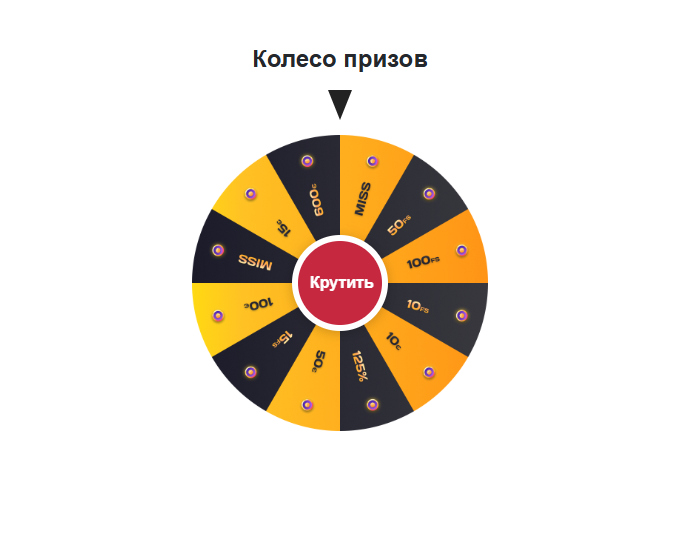
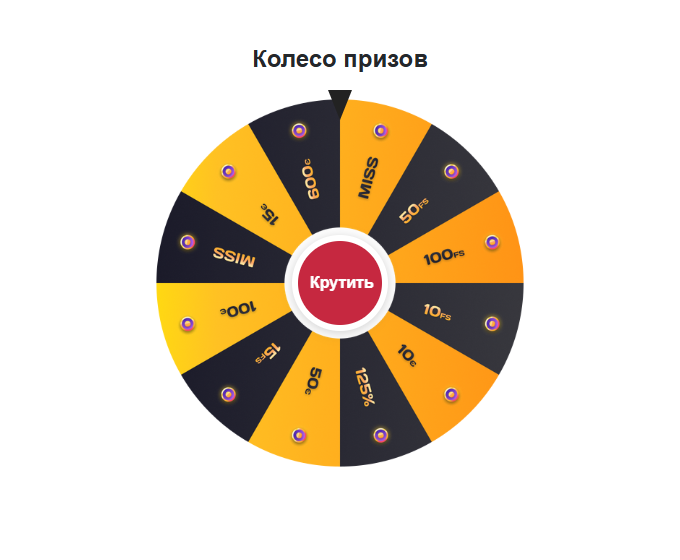
Polish wheel assets, remove product and normalize transparency

Changed region(s): [[0.2162, 0.1518, 0.7721, 0.85]]

diff --git a/README.md b/README.md
@@ -84,21 +84,21 @@ If you like this script, PLEASE DONATE!
 
 ## Дополнительные колёса
 
-Четыре изображения из [поста в «Жёлтом Вебе» от 29 августа 2022 года](https://t.me/yellow_web/830). Сохранены как JPEG из публичной веб-версии Telegram, без перерисовки. Права остаются у авторов изображений; отдельная лицензия на них не предоставляется.
+Четыре изображения из [поста в «Жёлтом Вебе» от 29 августа 2022 года](https://t.me/yellow_web/830). Подготовлены в PNG с прозрачным фоном. Права остаются у авторов изображений; отдельная лицензия на них не предоставляется.
 
 Скопируйте папку `wheels` на сайт и замените `image` и `stopAngle` в настройках. Углы ниже выставляют сектор **50%** под верхним указателем:
 
 | Файл | `stopAngle` | Источник |
 | --- | --- | --- |
-| `wheels/telegram-830.jpg` | `315` | [Пост 830](https://t.me/yellow_web/830?single) |
-| `wheels/telegram-831.jpg` | `0` | [Пост 831](https://t.me/yellow_web/831?single) |
-| `wheels/telegram-832.jpg` | `180` | [Пост 832](https://t.me/yellow_web/832?single) |
-| `wheels/telegram-833.jpg` | `67.5` | [Пост 833](https://t.me/yellow_web/833?single) |
+| `wheels/telegram-830.png` | `315` | [Пост 830](https://t.me/yellow_web/830?single) |
+| `wheels/telegram-831.png` | `0` | [Пост 831](https://t.me/yellow_web/831?single) |
+| `wheels/telegram-832.png` | `180` | [Пост 832](https://t.me/yellow_web/832?single) |
+| `wheels/telegram-833.png` | `67.5` | [Пост 833](https://t.me/yellow_web/833?single) |
 
 ```js
 const roulette = initRoulette({
   selectors: { roulette: '#roulette', form: '#order' },
-  image: 'wheels/telegram-830.jpg',
+  image: 'wheels/telegram-830.png',
   stopAngle: 315
 });
 ```
@@ -115,14 +115,14 @@ const roulette = initRoulette({
 
 ## Ещё восемь вариантов
 
-PNG предоставлены владельцем репозитория и сохранены без изменений. У первых семи файлов есть альфа-канал. У `prize-gold.png` шахматная подложка является частью изображения, прозрачности нет. У `bonus-spinner.png` широкие прозрачные поля, поэтому само колесо выглядит меньше. Центральная кнопка виджета перекрывает часть рисунка, в том числе товар на `maximizer.png`.
+Все дополнительные колёса подготовлены в PNG 512 × 512 с прозрачным фоном.
 
-Подключение такое же: `image: 'wheels/имя-файла.png'`. Для `maximizer.png` сектор 50% находится под указателем при `stopAngle: 90`, для `green-discount.png` при `stopAngle: 315`. Для остальных вариантов подберите угол и задайте `texts.popupTitle`, `texts.popupText`, `texts.confirm` под свои призы. Не оставляйте стандартные 50% у колеса с денежными суммами, FS или без надписей: скрипт не распознаёт изображение и не начисляет призы. Права на графику остаются у её авторов.
+Подключение такое же: `image: 'wheels/имя-файла.png'`. Для `coral-turquoise.png` сектор 50% находится под указателем при `stopAngle: 90`, для `green-discount.png` при `stopAngle: 315`. Для остальных вариантов подберите угол и задайте `texts.popupTitle`, `texts.popupText`, `texts.confirm` под свои призы. Не оставляйте стандартные 50% у колеса с денежными суммами, FS или без надписей: скрипт не распознаёт изображение и не начисляет призы. Права на графику остаются у её авторов.
 
-| Бирюзово-розовое, с товаром MAXIMIZER в центре | Пастельное, без надписей |
+| Бирюзово-розовое, с золотым центром | Пастельное, без надписей |
 | --- | --- |
-| [maximizer.png](wheels/maximizer.png) | [pastel.png](wheels/pastel.png) |
-| ![Бирюзово-розовое, с товаром MAXIMIZER в центре](screenshots/maximizer.png) | ![Пастельное, без надписей](screenshots/pastel.png) |
+| [coral-turquoise.png](wheels/coral-turquoise.png) | [pastel.png](wheels/pastel.png) |
+| ![Бирюзово-розовое, с золотым центром](screenshots/coral-turquoise.png) | ![Пастельное, без надписей](screenshots/pastel.png) |
 
 | Разноцветное, со скидками | Разноцветное, с Jackpot |
 | --- | --- |

diff --git a/README.en.md b/README.en.md
@@ -86,21 +86,21 @@ The wheel artwork comes from the [original CPARIP roulette](https://cpa.rip/stat
 
 ## Additional Wheels
 
-Four images from the [Yellow Web post dated August 29, 2022](https://t.me/yellow_web/830). These are JPEG images downloaded from Telegram's public web version, without redrawing. Rights remain with the original artwork owners; no separate license is granted here.
+Four images from the [Yellow Web post dated August 29, 2022](https://t.me/yellow_web/830). Available as PNG images with transparent backgrounds. Rights remain with the original artwork owners; no separate license is granted here.
 
 Copy the `wheels` directory to your website and replace `image` and `stopAngle` in your configuration. These angles place a **50%** sector under the top pointer:
 
 | File | `stopAngle` | Source |
 | --- | --- | --- |
-| `wheels/telegram-830.jpg` | `315` | [Post 830](https://t.me/yellow_web/830?single) |
-| `wheels/telegram-831.jpg` | `0` | [Post 831](https://t.me/yellow_web/831?single) |
-| `wheels/telegram-832.jpg` | `180` | [Post 832](https://t.me/yellow_web/832?single) |
-| `wheels/telegram-833.jpg` | `67.5` | [Post 833](https://t.me/yellow_web/833?single) |
+| `wheels/telegram-830.png` | `315` | [Post 830](https://t.me/yellow_web/830?single) |
+| `wheels/telegram-831.png` | `0` | [Post 831](https://t.me/yellow_web/831?single) |
+| `wheels/telegram-832.png` | `180` | [Post 832](https://t.me/yellow_web/832?single) |
+| `wheels/telegram-833.png` | `67.5` | [Post 833](https://t.me/yellow_web/833?single) |
 
 ```js
 const roulette = initRoulette({
   selectors: { roulette: '#roulette', form: '#order' },
-  image: 'wheels/telegram-830.jpg',
+  image: 'wheels/telegram-830.png',
   stopAngle: 315
 });
 ```
@@ -117,14 +117,14 @@ Screenshots of each image in the working widget (Russian labels):
 
 ## Eight More Designs
 
-These PNGs were supplied by the repository owner and are preserved unchanged. The first seven files have an alpha channel. In `prize-gold.png`, the checkerboard is baked into the image; it is not transparent. `bonus-spinner.png` has wide transparent margins, so its wheel appears smaller. The widget's center button covers part of the artwork, including the product in `maximizer.png`.
+All additional wheels are supplied as 512 × 512 PNG images with transparent backgrounds.
 
-Use `image: 'wheels/filename.png'`. For `maximizer.png`, `stopAngle: 90` places 50% under the pointer; for `green-discount.png`, use `stopAngle: 315`. For other designs, choose the angle and set `texts.popupTitle`, `texts.popupText` and `texts.confirm` to match your prizes. Do not keep the default 50% message for wheels showing amounts, FS or no labels: the script does not interpret the image or award prizes. Artwork rights remain with their respective owners.
+Use `image: 'wheels/filename.png'`. For `coral-turquoise.png`, `stopAngle: 90` places 50% under the pointer; for `green-discount.png`, use `stopAngle: 315`. For other designs, choose the angle and set `texts.popupTitle`, `texts.popupText` and `texts.confirm` to match your prizes. Do not keep the default 50% message for wheels showing amounts, FS or no labels: the script does not interpret the image or award prizes. Artwork rights remain with their respective owners.
 
-| Turquoise and pink, MAXIMIZER product in the center | Pastel, unlabeled |
+| Turquoise and pink, with a gold center | Pastel, unlabeled |
 | --- | --- |
-| [maximizer.png](wheels/maximizer.png) | [pastel.png](wheels/pastel.png) |
-| ![Turquoise and pink, MAXIMIZER product in the center](screenshots/maximizer.png) | ![Pastel, unlabeled](screenshots/pastel.png) |
+| [coral-turquoise.png](wheels/coral-turquoise.png) | [pastel.png](wheels/pastel.png) |
+| ![Turquoise and pink, with a gold center](screenshots/coral-turquoise.png) | ![Pastel, unlabeled](screenshots/pastel.png) |
 
 | Multicolor discounts | Multicolor with Jackpot |
 | --- | --- |
